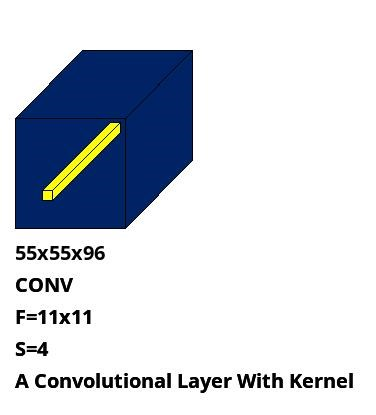
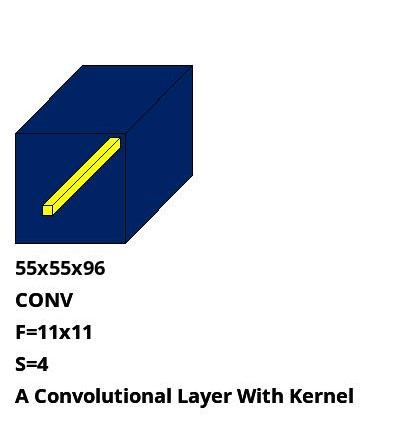
adding all the images

Changed region(s): [[0.0293, 0.1157, 0.5266, 0.6361], [0.0293, 0.8096, 0.9362, 0.9542], [0.0293, 0.6651, 0.2633, 0.7807]]

diff --git a/README.md b/README.md
@@ -81,9 +81,39 @@ obj.render("alex_net.jpg")
 ## Shapes
 Currently, we support following shapes,
 - Cube 
+
 ![Cube](./cube.jpg)
+
+```commandline
+obj.add_cube(width=55, height=55, factor=2, depth=96, texts=["CONV", "F=11x11", "S=4", "A Convolutional Layer With Kernel"], angle=45,
+                 color="#002366", kernel_size=5,
+                 filter_color="yellow", line_gap=10, component_gap=5)
+```
+
 - Rectangle 
-- 
+
+![Rectangle](./rectangle.jpg)
+
+```commandline
+obj.add_rectangle(component_gap=5, width=30, height=100, color="#FF8A8A", grid=False, grid_gap=5,
+                      grid_color="black",
+                      circle=True, circle_color="white", cycle_gap=5, texts=["FC", "8"])
+
+```
+
 - Multi Plane Rectangles 
+
+![Multi Plane Rectangle](./multi_plane_image.jpg)
+
+```commandline
+obj.add_multi_plane_image(component_gap=5, width=227, height=227, factor=1, plane_number=3,
+                              colors=["red", "green", "blue"], grid=True, grid_gap=5, grid_color="black", texts="Image",
+                              line_gap=2, plane_shift=5)
+```
+
 - Arrow with Text
 
+```commandline
+obj.add_arrow_with_text(component_gap=5, length=100, triangle_size=5, texts=["Arrow", "with text"], line_gap=1)
+```
+![Arrow With Text](./arrow_with_text.jpg)
